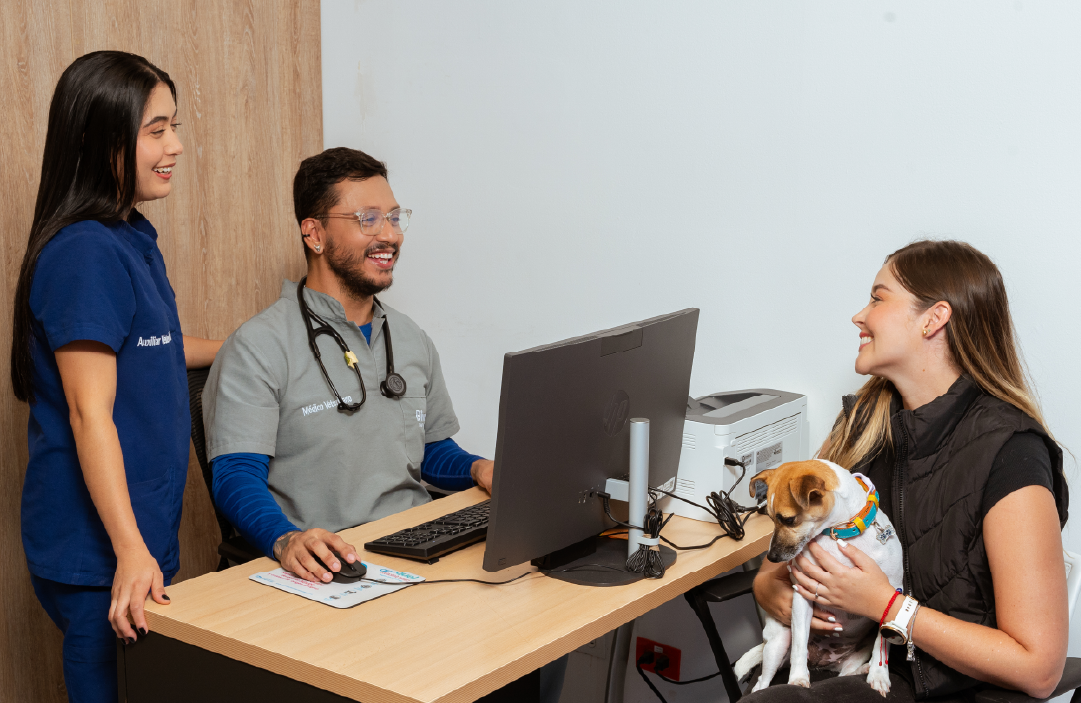
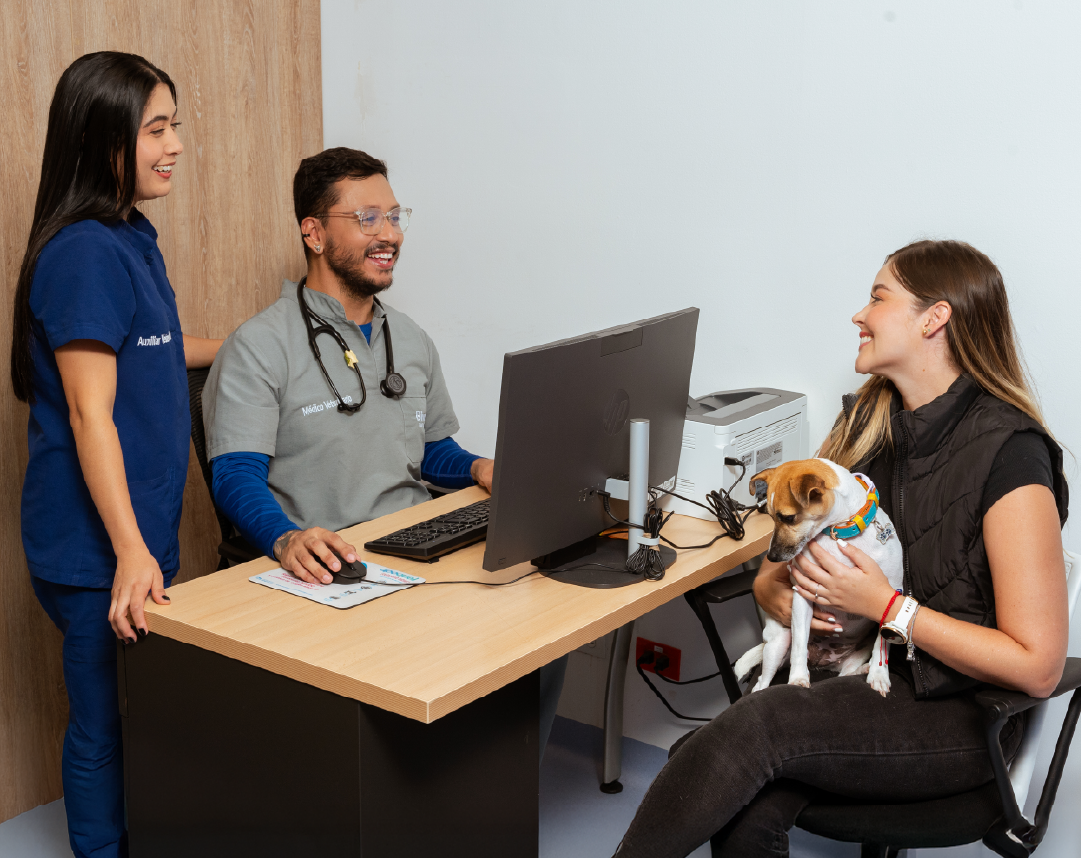
Add real photos for the 6 services and widen the services list
Replaces the RUTA_IMAGEN_* placeholders with the real photos for
Especialidades, Urgencias, Cirugía, Hospitalización and Teleorientación,
and widens the services list column (240px -> 300px) so every label
wraps to at most 2 lines.

diff --git a/index.html b/index.html
@@ -362,8 +362,8 @@
   .services-picker{display:grid;grid-template-columns:1fr;gap:16px;}
   @media (min-width:960px){
     .services-picker{
-      display:grid;grid-template-columns:240px 340px;align-items:stretch;
-      gap:20px;max-width:600px;margin:0 auto;
+      display:grid;grid-template-columns:300px 340px;align-items:stretch;
+      gap:20px;max-width:660px;margin:0 auto;
     }
   }
   .services-picker > *{min-width:0;}
@@ -371,12 +371,12 @@
   .services-list{display:flex;flex-direction:column;gap:12px;}
   .service-item{
     display:flex;align-items:center;gap:16px;
-    width:100%;height:72px;box-sizing:border-box;
+    width:100%;min-height:72px;box-sizing:border-box;
     text-align:left;font:inherit;cursor:pointer;
     background:var(--white);
     border:1.5px solid var(--bebe);
     border-radius:16px;
-    padding:0 20px;
+    padding:12px 20px;
     transition:background-color var(--dur-fast) var(--ease-out), border-color var(--dur-fast) var(--ease-out);
   }
   .service-item:hover{border-color:var(--verde-cta);}
@@ -773,7 +773,7 @@
           </button>
 
           <button type="button" class="service-item" role="listitem" aria-pressed="false"
-            data-photo="System%20design/Servicios/RUTA_IMAGEN_ESPECIALIDADES.png"
+            data-photo="System%20design/Servicios/1_Especialidades%20veterinarias.png"
             data-alt="Especialidades veterinarias en Bivett"
             data-title="Especialidades veterinarias"
             data-text="Atención especializada en las áreas que tu mascota necesita, con profesionales expertos."
@@ -786,7 +786,7 @@
           </button>
 
           <button type="button" class="service-item" role="listitem" aria-pressed="false"
-            data-photo="System%20design/Servicios/RUTA_IMAGEN_URGENCIAS.png"
+            data-photo="System%20design/Servicios/1_Urgencias%20veterinarias.png"
             data-alt="Atención de urgencias veterinarias en Bivett"
             data-title="Urgencias veterinarias"
             data-text="Atención inmediata cuando tu perro o gato más lo necesita."
@@ -799,7 +799,7 @@
           </button>
 
           <button type="button" class="service-item" role="listitem" aria-pressed="false"
-            data-photo="System%20design/Servicios/RUTA_IMAGEN_CIRUGIA.png"
+            data-photo="System%20design/Servicios/1_Cirugia.png"
             data-alt="Cirugía veterinaria en Bivett"
             data-title="Cirugía de baja, media y alta complejidad"
             data-text="Procedimientos quirúrgicos seguros, sin importar el nivel de complejidad."
@@ -812,7 +812,7 @@
           </button>
 
           <button type="button" class="service-item" role="listitem" aria-pressed="false"
-            data-photo="System%20design/Servicios/RUTA_IMAGEN_HOSPITALIZACION.png"
+            data-photo="System%20design/Servicios/1_Hospitalizaci%C3%B3n.png"
             data-alt="Hospitalización veterinaria en Bivett"
             data-title="Hospitalización"
             data-text="Cuidado y monitoreo constante para una recuperación segura."
@@ -824,10 +824,9 @@
             <span class="service-item-label">Hospitalización</span>
           </button>
 
-          <!-- TODO: reemplazar por una foto real de teleorientación (llamada/videollamada); se reutiliza temporalmente la foto de orientación veterinaria presencial -->
           <button type="button" class="service-item" role="listitem" aria-pressed="false"
-            data-photo="System%20design/Servicios/1_Orientaci%C3%B3n%20veterinaria.png"
-            data-alt="Orientación veterinaria a un cuidador en Bivett"
+            data-photo="System%20design/Servicios/1_Teleorientacion%20veterinaria.png"
+            data-alt="Teleorientación veterinaria a un cuidador en Bivett"
             data-title="Teleorientación veterinaria"
             data-text="Resuelve tus dudas con un vettcino, sin salir de casa."
             data-cta-label="Pregunta por teleorientación veterinaria →"
@@ -842,7 +841,7 @@
 
         <div class="services-panel">
           <div class="services-panel-media">
-            <img id="servicesPanelPhoto" src="System%20design/Servicios/1_Consulta%20general.png" alt="Veterinario y auxiliar atendiendo a una paciente con su perro en consulta general" width="1081" height="703">
+            <img id="servicesPanelPhoto" src="System%20design/Servicios/1_Consulta%20general.png" alt="Veterinario y auxiliar atendiendo a una paciente con su perro en consulta general" width="1081" height="858">
           </div>
           <h3 id="servicesPanelTitle">Consulta general</h3>
           <p id="servicesPanelText">Para saber cómo está y actuar a tiempo si algo cambia.</p>
